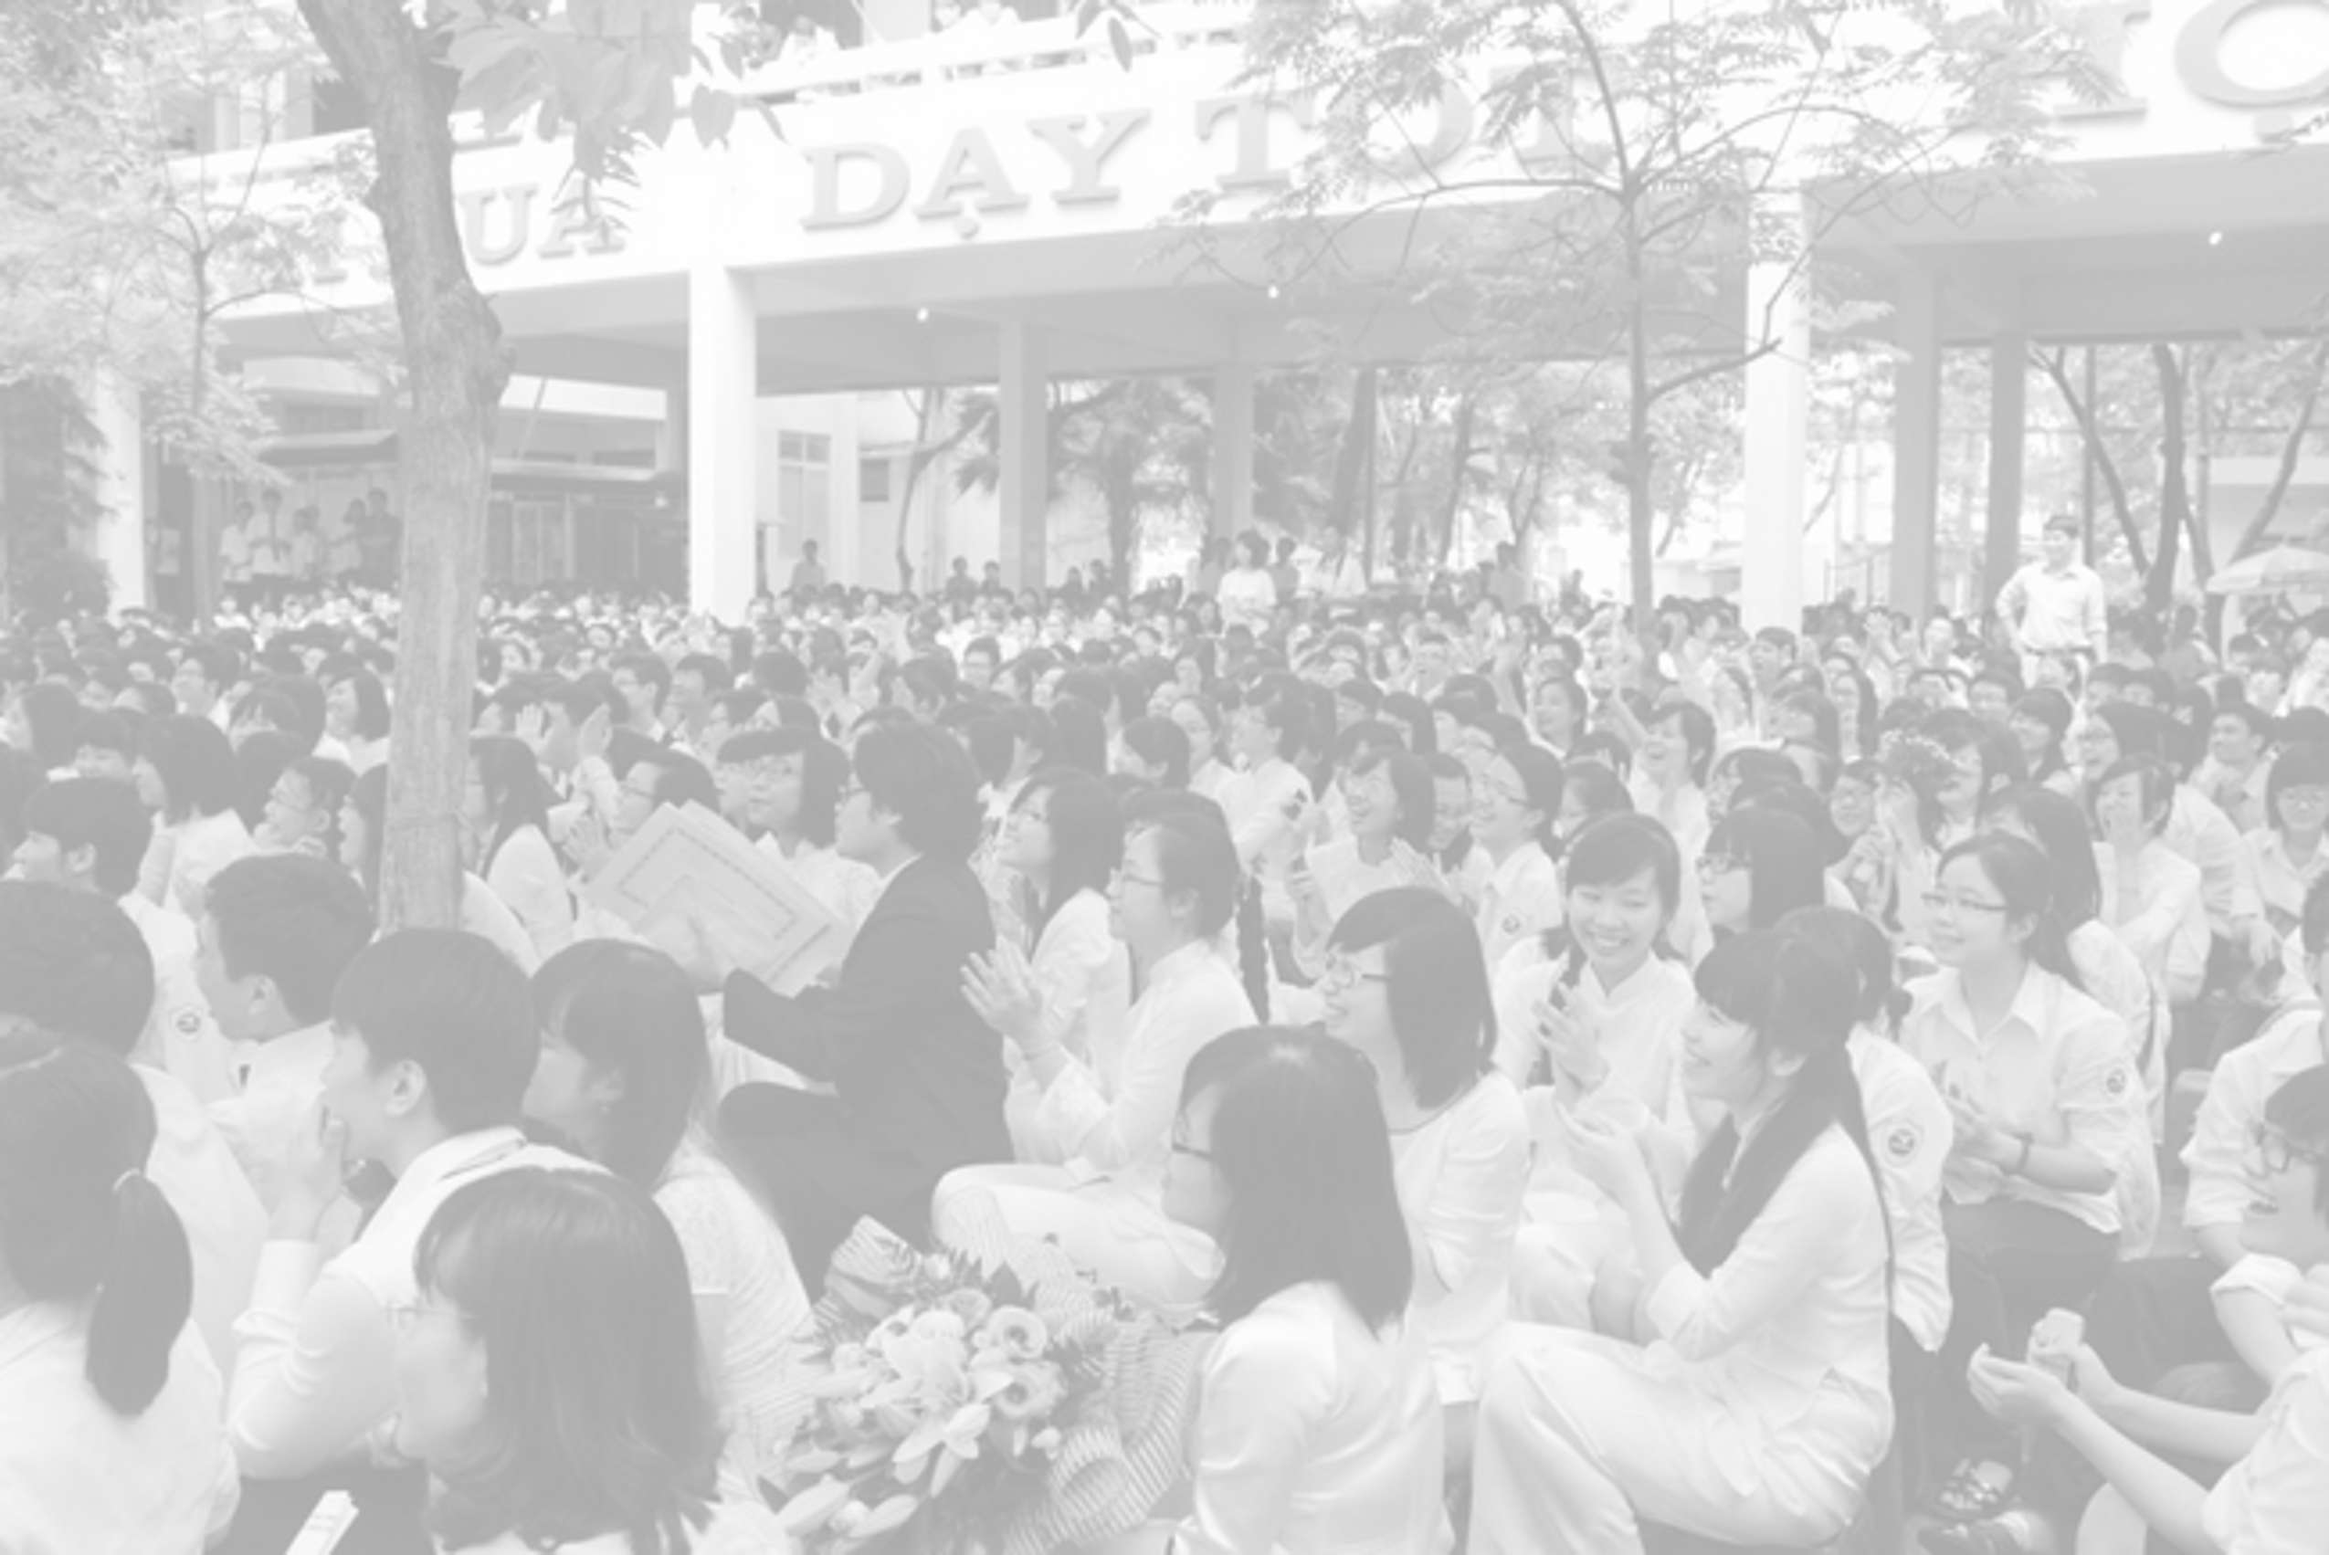
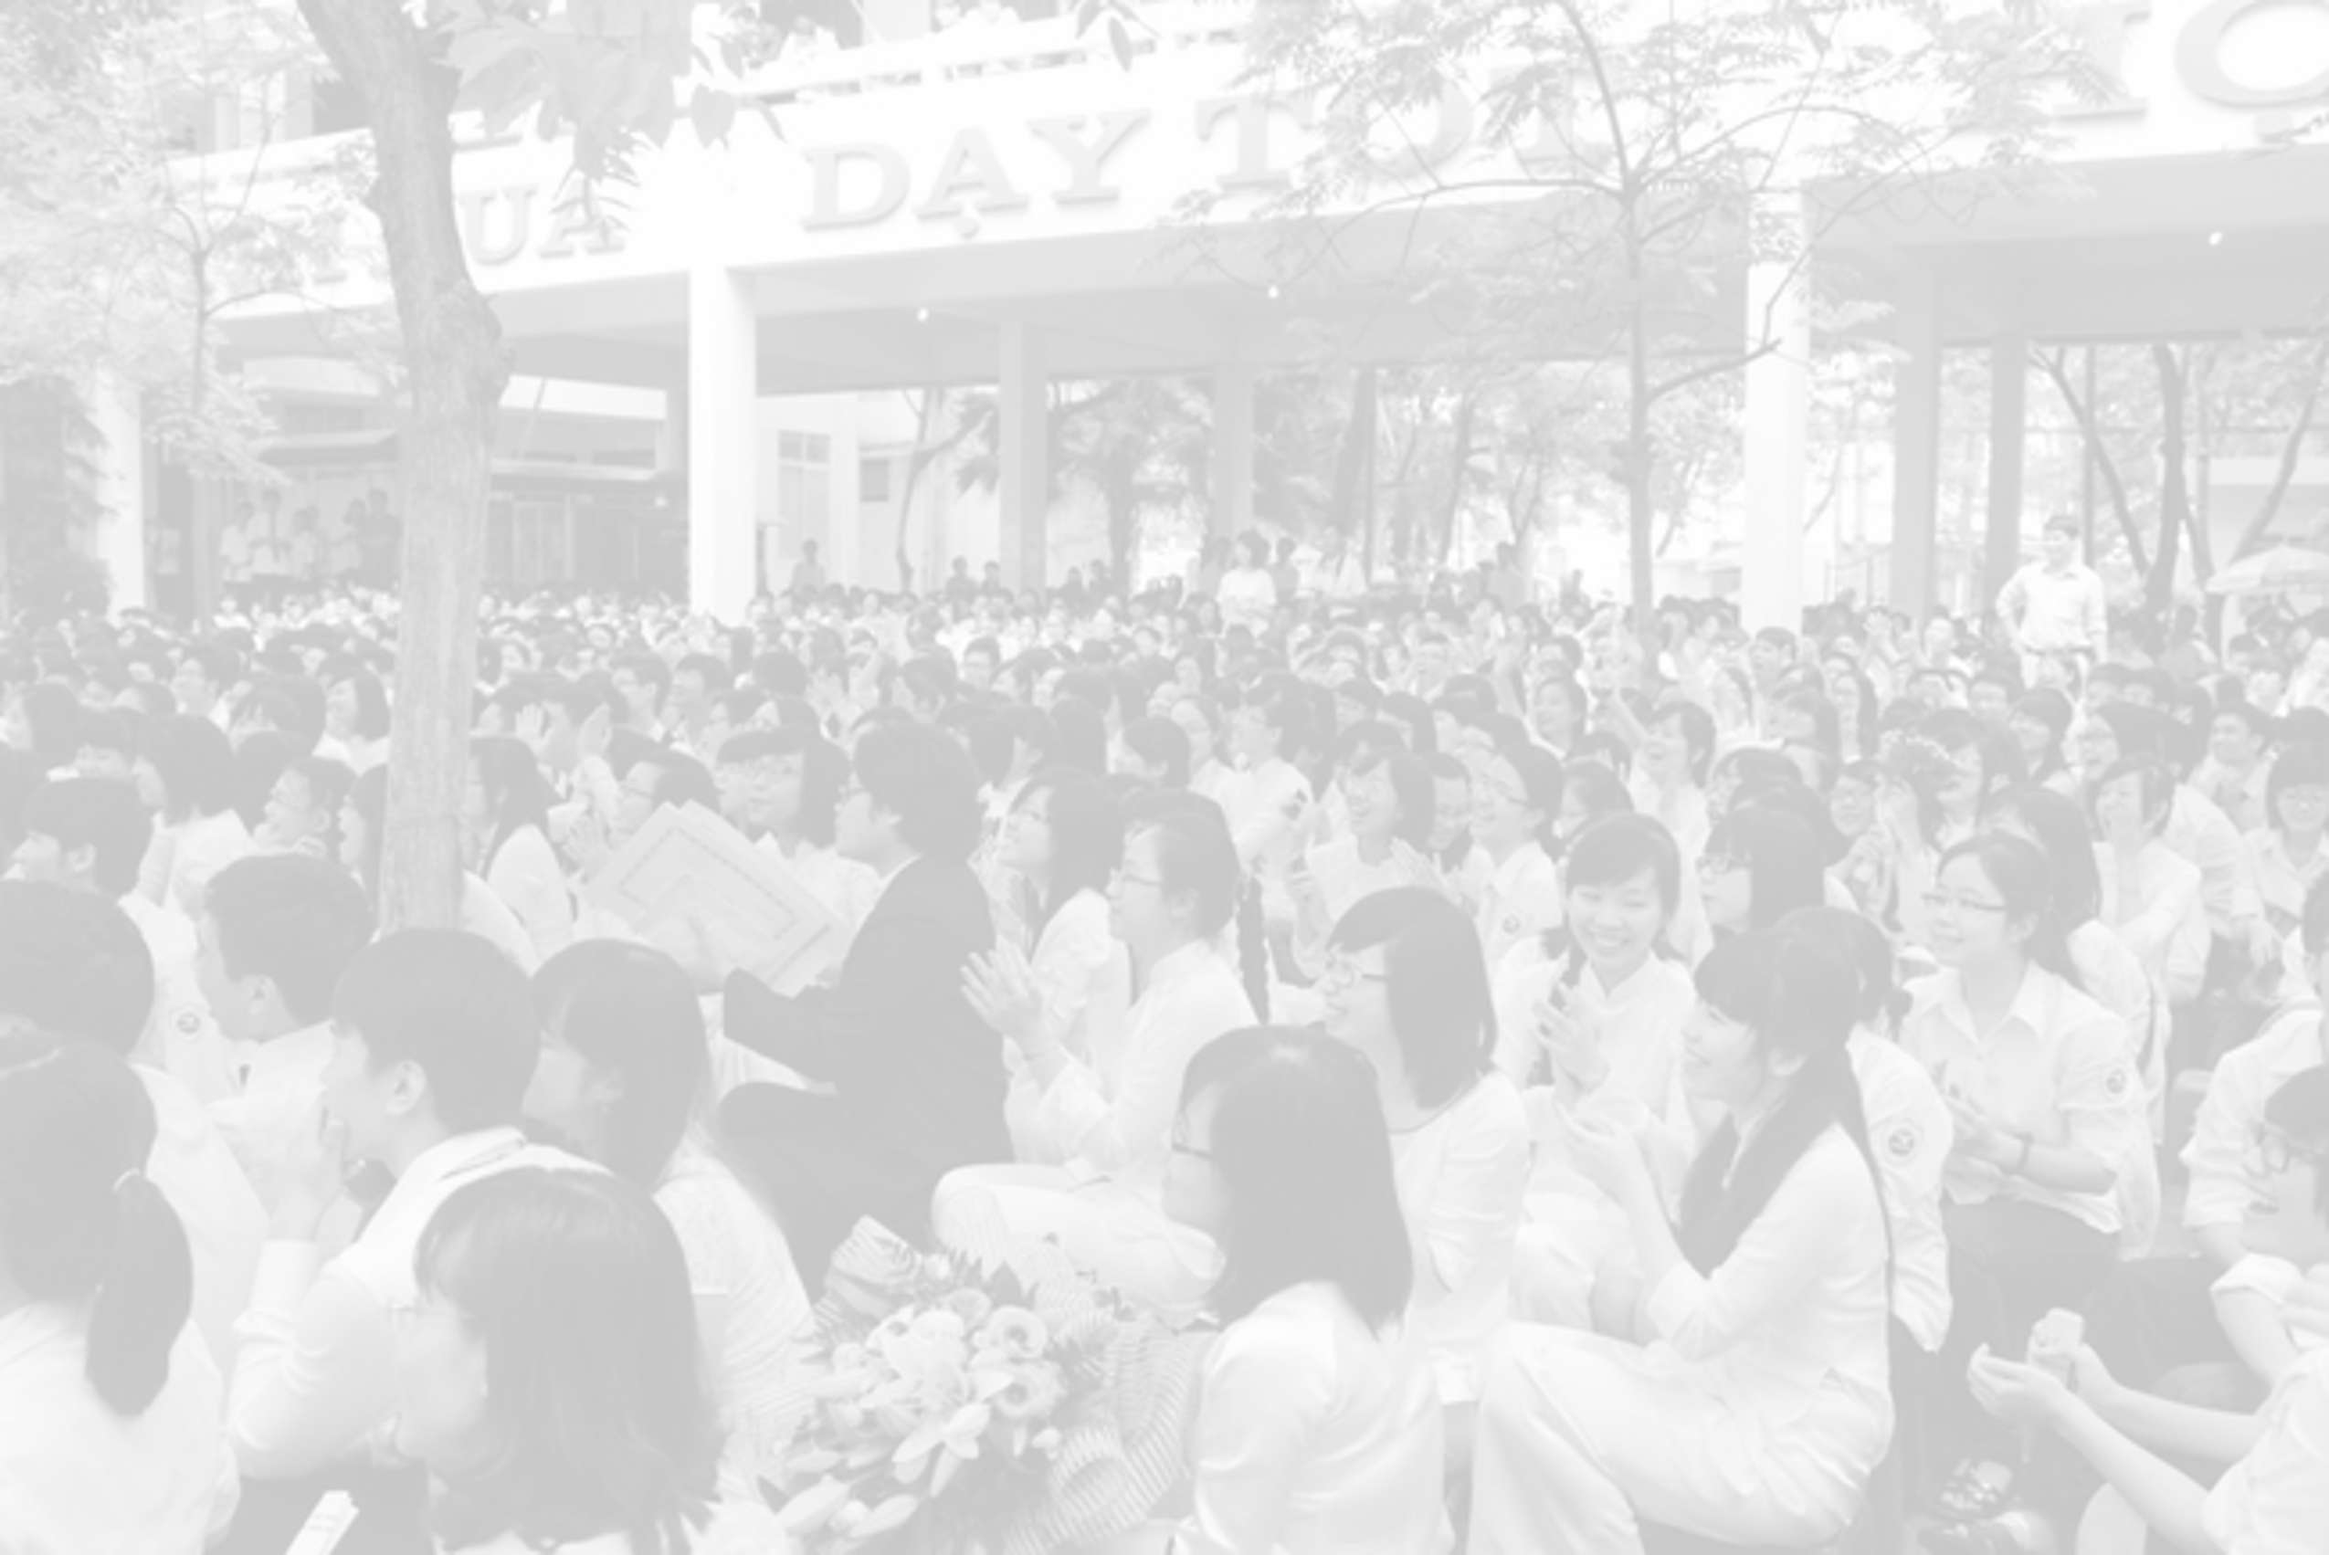
Cleaning up more crap

diff --git a/global/index.html b/global/index.html
@@ -69,6 +69,7 @@
             <div class="row featurette">
                 <a class="anchor" id="schedule"></a>
                 <div class="col-md-12">
+                    <h2 class="featurette-heading center text-schedule">Conference Schedule</h2>
                     <ul class="cbp_tmtimeline">
                         <li>
                             <time class="cbp_tmtime" datetime="2014-01-01 07:30"><span>01/01/14</span> <span>07:45</span></time>
@@ -144,8 +145,8 @@
         <div class="row featurette">
             <a class="anchor" id="speakers"></a>
             <div class="col-md-12">
-                <h2 class="featurette-heading"><span class="text-muted">Guest Speakers</span></h2>
-                <p class="lead">Lorem ipsum dolor sit amet, consectetur adipisicing elit, sed do eiusmod tempor incididunt ut labore et dolore magna aliqua. Ut enim ad minim veniam, quis nostrud exercitation ullamco laboris nisi ut aliquip ex ea commodo consequat.</p>
+                <h2 class="featurette-heading center"><span class="text-muted">Guest Speakers</span></h2>
+                <p class="lead center">Lorem ipsum dolor sit amet, consectetur adipisicing elit, sed do eiusmod tempor incididunt ut labore et dolore magna aliqua. Ut enim ad minim veniam, quis nostrud exercitation ullamco laboris nisi ut aliquip ex ea commodo consequat.</p>
             </div>
             <div class="col-md-12">
                 <div class="col-md-6">
@@ -197,7 +198,7 @@
 
         <div class="row featurette last">
             <a class="anchor" id="staff"></a>
-            <h2 class="featurette-heading"><span class="text-muted">CNN Conference staff</span></h2>
+            <h2 class="featurette-heading center"><span class="text-muted">CNN Conference staff</span></h2>
             <div class="col-md-12">
 
                 <div class="col-md-4">
@@ -260,8 +261,8 @@
 
         <div class="row featurette last">
             <a class="anchor" id="testimonials"></a>
-            <h2 class="featurette-heading"><span class="text-muted">Testimonials</span></h2>
-            <p class="lead">Testimonials from Global CNNers alumni, or better, from past participants who are now Global CNNers</p>
+            <h2 class="featurette-heading center"><span class="text-muted">Testimonials</span></h2>
+            <p class="lead center">Testimonials from Global CNNers alumni, or better, from past participants who are now Global CNNers</p>
             <div class="col-md-12">
                 <div class="col-md-6">
                     <div class="testimonial">
@@ -278,19 +279,16 @@
 
         <div class="row featurette last">
             <a class="anchor" id="docs"></a>
-            <h2 class="featurette-heading"><span class="text-muted">Slides and Documents</span></h2>
-            <p class="lead"><b>Slideshows and Document files from the Conference (TODO)</b></p>
-            <p class="lead">Lorem ipsum dolor sit amet, consectetur adipisicing elit, sed do eiusmod tempor incididunt ut labore et dolore magna aliqua. Ut enim ad minim veniam, quis nostrud exercitation ullamco laboris nisi ut aliquip ex ea commodo consequat. Duis aute irure dolor in reprehenderit in voluptate velit esse cillum dolore eu fugiat nulla pariatur. Excepteur sint occaecat cupidatat non proident, sunt in culpa qui officia deserunt mollit anim id est laborum.</p>
+            <h2 class="featurette-heading center"><span class="text-muted">Slides and Documents</span></h2>
+            <p class="lead center"><b>Slideshows and Document files from the Conference (TODO)</b></p>
         </div>
 
         <hr class="featurette-divider">
 
         <div class="row featurette last">
             <a class="anchor" id="contact-us"></a>
-            <h2 class="featurette-heading"><span class="text-muted">Contact Us</span></h2>
-            <p class="lead">- Ask us anything about Global CNNers and any other questions you might have about studying overseas <a href="mailto:globalcnners@gmail.com" target="_blank">globalcnners@gmail.com</a>!</p>
-            <p class="lead">- Like our Facebook page <a href="http://www.facebook.com/" target="_blank">here</a> or subscribe to our <a href="#" target="_blank">mailing list</a> for the newest updates!</p>
-            <p class="lead">We are looking forward to hearing from you!</p>
+            <h2 class="featurette-heading center"><span class="text-muted">Contact Us</span></h2>
+            <p class="lead center">We are looking forward to hearing from you!</p>
         </div>
 
         <!-- /END THE FEATURETTES -->

diff --git a/global/css/main.min.css b/global/css/main.min.css
@@ -120,6 +120,10 @@ body {
     letter-spacing: -1px;
 }
 
+.featurette-heading.text-schedule {
+    color: #3594cb;
+}
+
 .center {
     text-align: center;
 }
